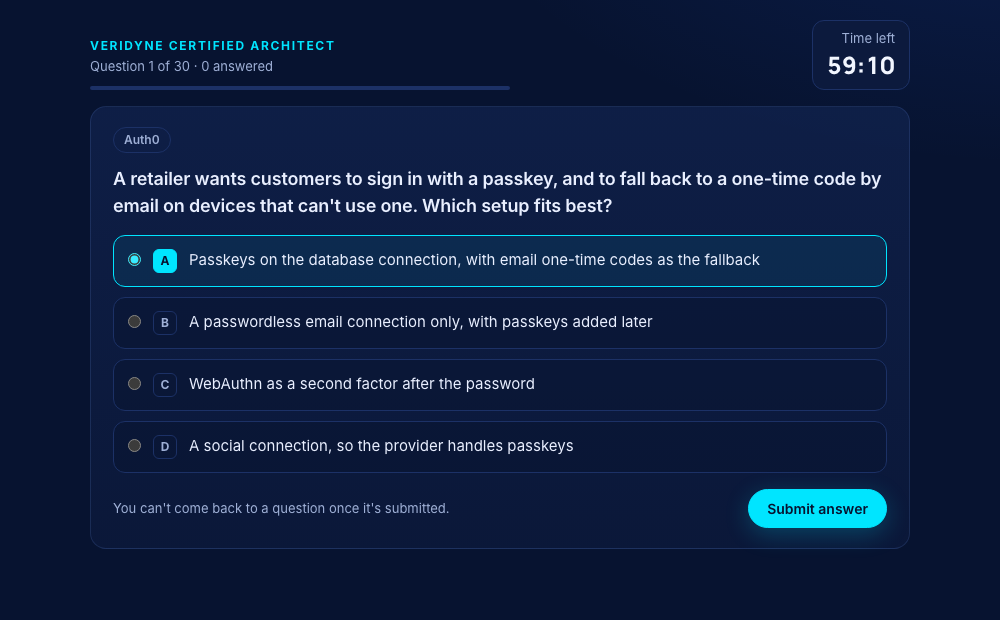
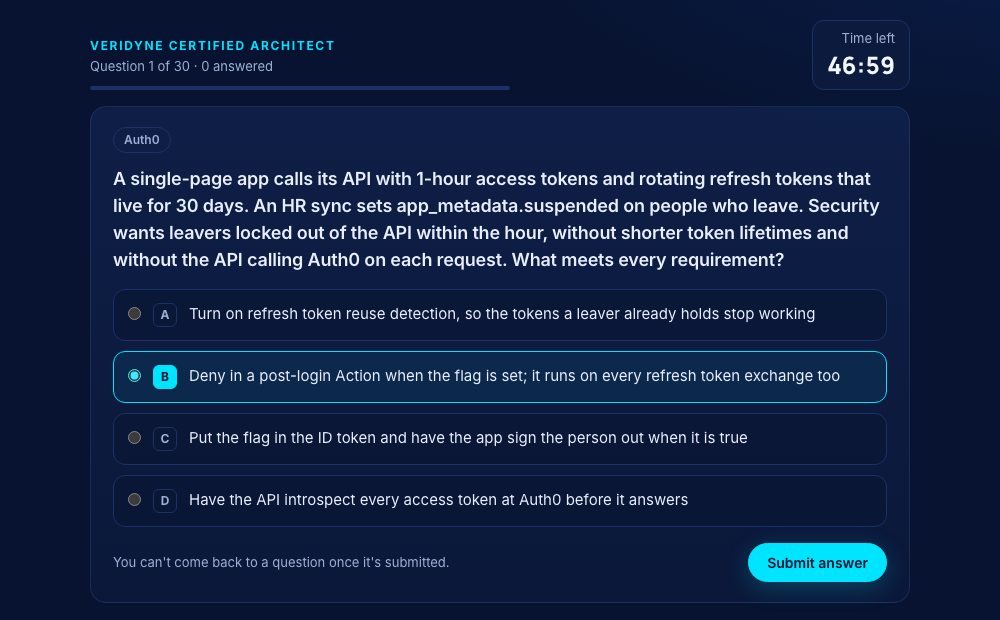
Certifications page: a harder sample exam question

diff --git a/certifications.html b/certifications.html
@@ -61,7 +61,7 @@
     <ul class="features rise"><li><h3>Four roles, one standard</h3><p>Consultant, Architect, Project Manager and Developer, each tested on what that role really does.</p></li><li><h3>Built from real projects</h3><p>Scenario questions and use cases on Auth0 and Okta, timed and taken online.</p></li><li><h3>A badge anyone can verify</h3><p>Every certification has its own code and a public record, valid for two years.</p></li></ul>
     <div class="product-gallery">
       <figure class="gallery-shot rise"><img src="/assets/certifications-home.png" alt="Veridyne Certifications home for a sample person: two certifications earned, one voucher available, with the Developer and Consultant badges" width="1600" height="940" loading="lazy"><figcaption>Your certifications, vouchers and profile in one place.</figcaption></figure>
-      <figure class="gallery-shot rise"><img src="/assets/certifications-exam.png" alt="An exam question for the Architect certification, with four answers, a progress bar and the time left" width="1000" height="620" loading="lazy"><figcaption>One question at a time, against the clock.</figcaption></figure>
+      <figure class="gallery-shot rise"><img src="/assets/certifications-exam.png" alt="A sample Architect exam question: locking leavers out of an API within the hour without shorter token lifetimes, with four answers and the time left" width="1000" height="620" loading="lazy"><figcaption>One question at a time, against the clock.</figcaption></figure>
       <figure class="gallery-shot rise"><img src="/assets/certifications-verify.png" alt="The public verification page for a sample Consultant certification: valid, with its code and dates" width="1100" height="560" loading="lazy"><figcaption>A public record behind every badge.</figcaption></figure>
     </div>
     <p class="gallery-note rise">Screens from the app, shown with sample data.</p>

diff --git a/tools/build_pages.py b/tools/build_pages.py
@@ -186,7 +186,7 @@ PRODUCTS = {
                   ('Built from real projects', 'Scenario questions and use cases on Auth0 and Okta, timed and taken online.'),
                   ('A badge anyone can verify', 'Every certification has its own code and a public record, valid for two years.')],
         gallery=[('/assets/certifications-home.png', 1600, 940, 'Your certifications, vouchers and profile in one place.', 'Veridyne Certifications home for a sample person: two certifications earned, one voucher available, with the Developer and Consultant badges'),
-                 ('/assets/certifications-exam.png', 1000, 620, 'One question at a time, against the clock.', 'An exam question for the Architect certification, with four answers, a progress bar and the time left'),
+                 ('/assets/certifications-exam.png', 1000, 620, 'One question at a time, against the clock.', 'A sample Architect exam question: locking leavers out of an API within the hour without shorter token lifetimes, with four answers and the time left'),
                  ('/assets/certifications-verify.png', 1100, 560, 'A public record behind every badge.', 'The public verification page for a sample Consultant certification: valid, with its code and dates')],
         caption='Screens from the app, shown with sample data.',
         meta='Veridyne Certifications: exams for identity work on Auth0 and Okta for Consultants, Architects, Project Managers and Developers, with a badge anyone can verify.'),
